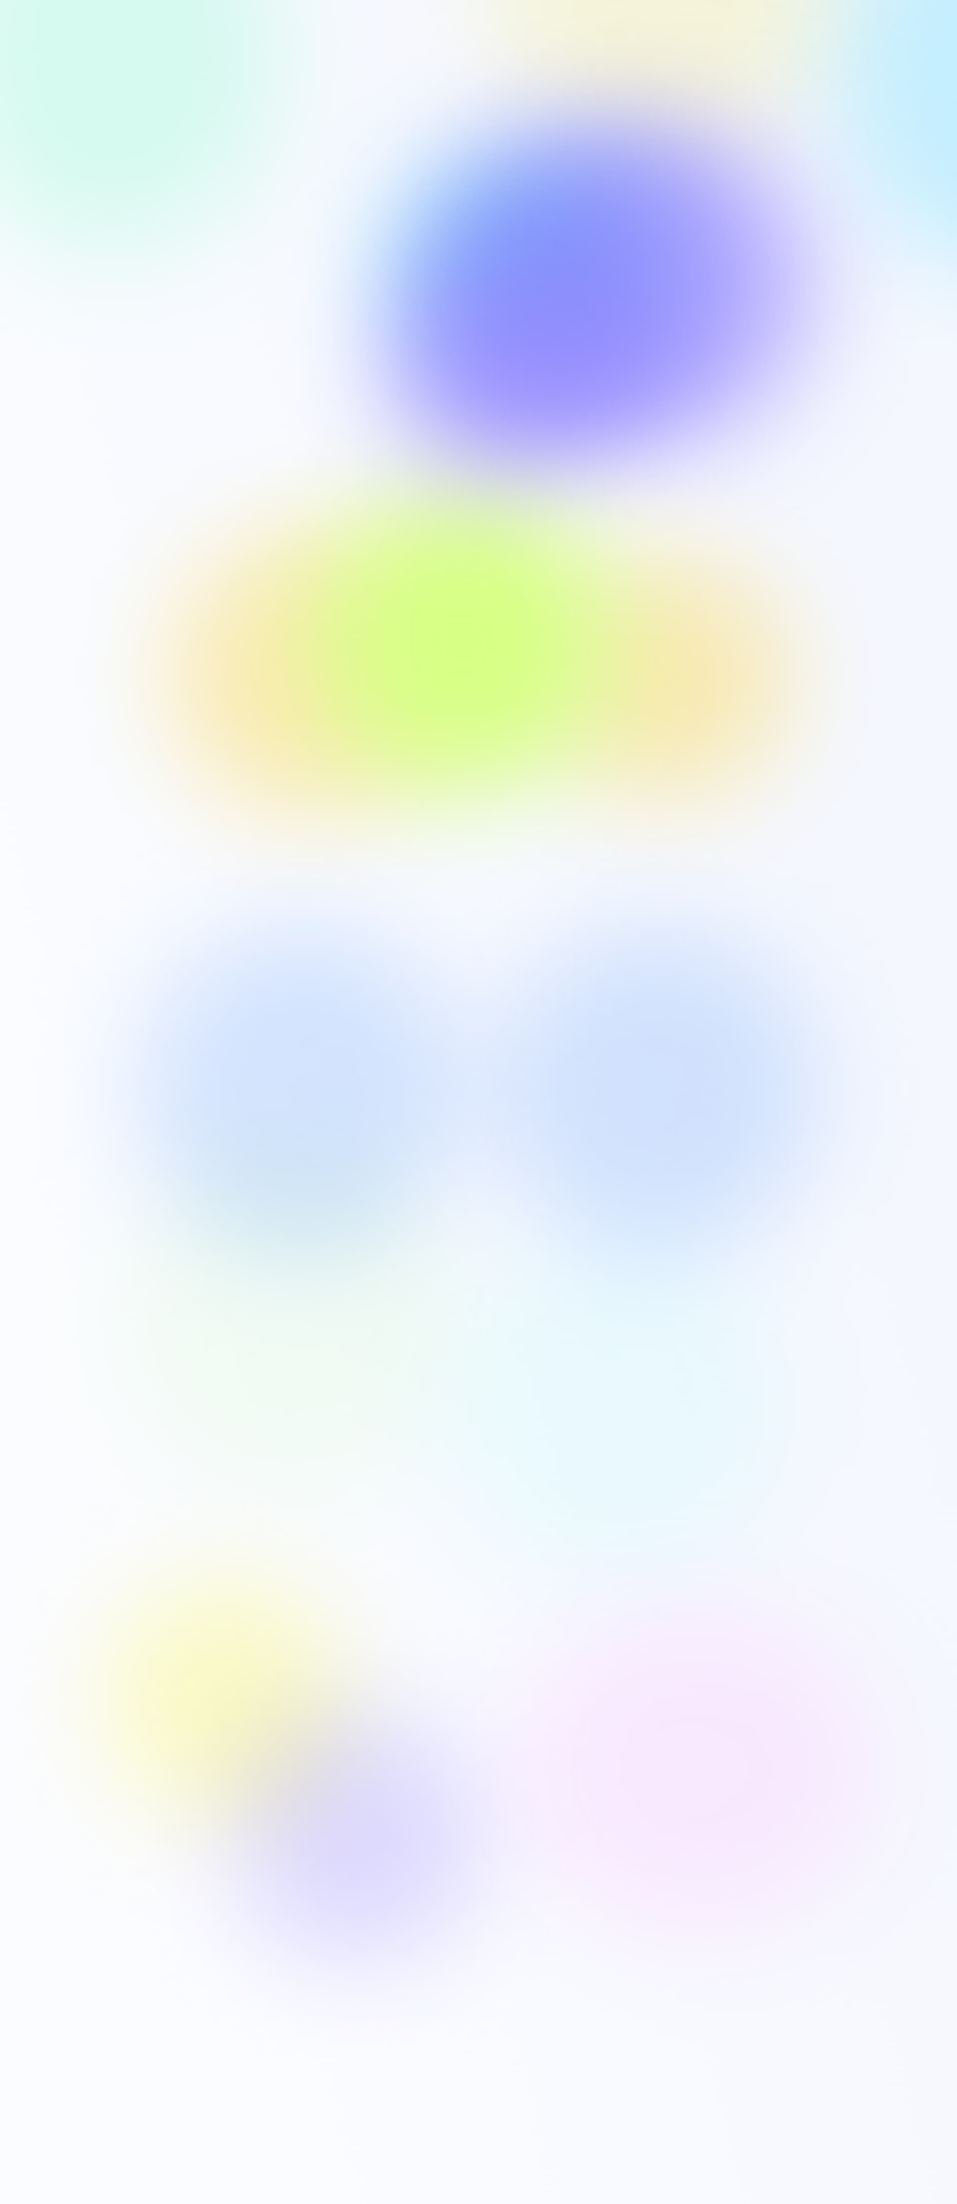
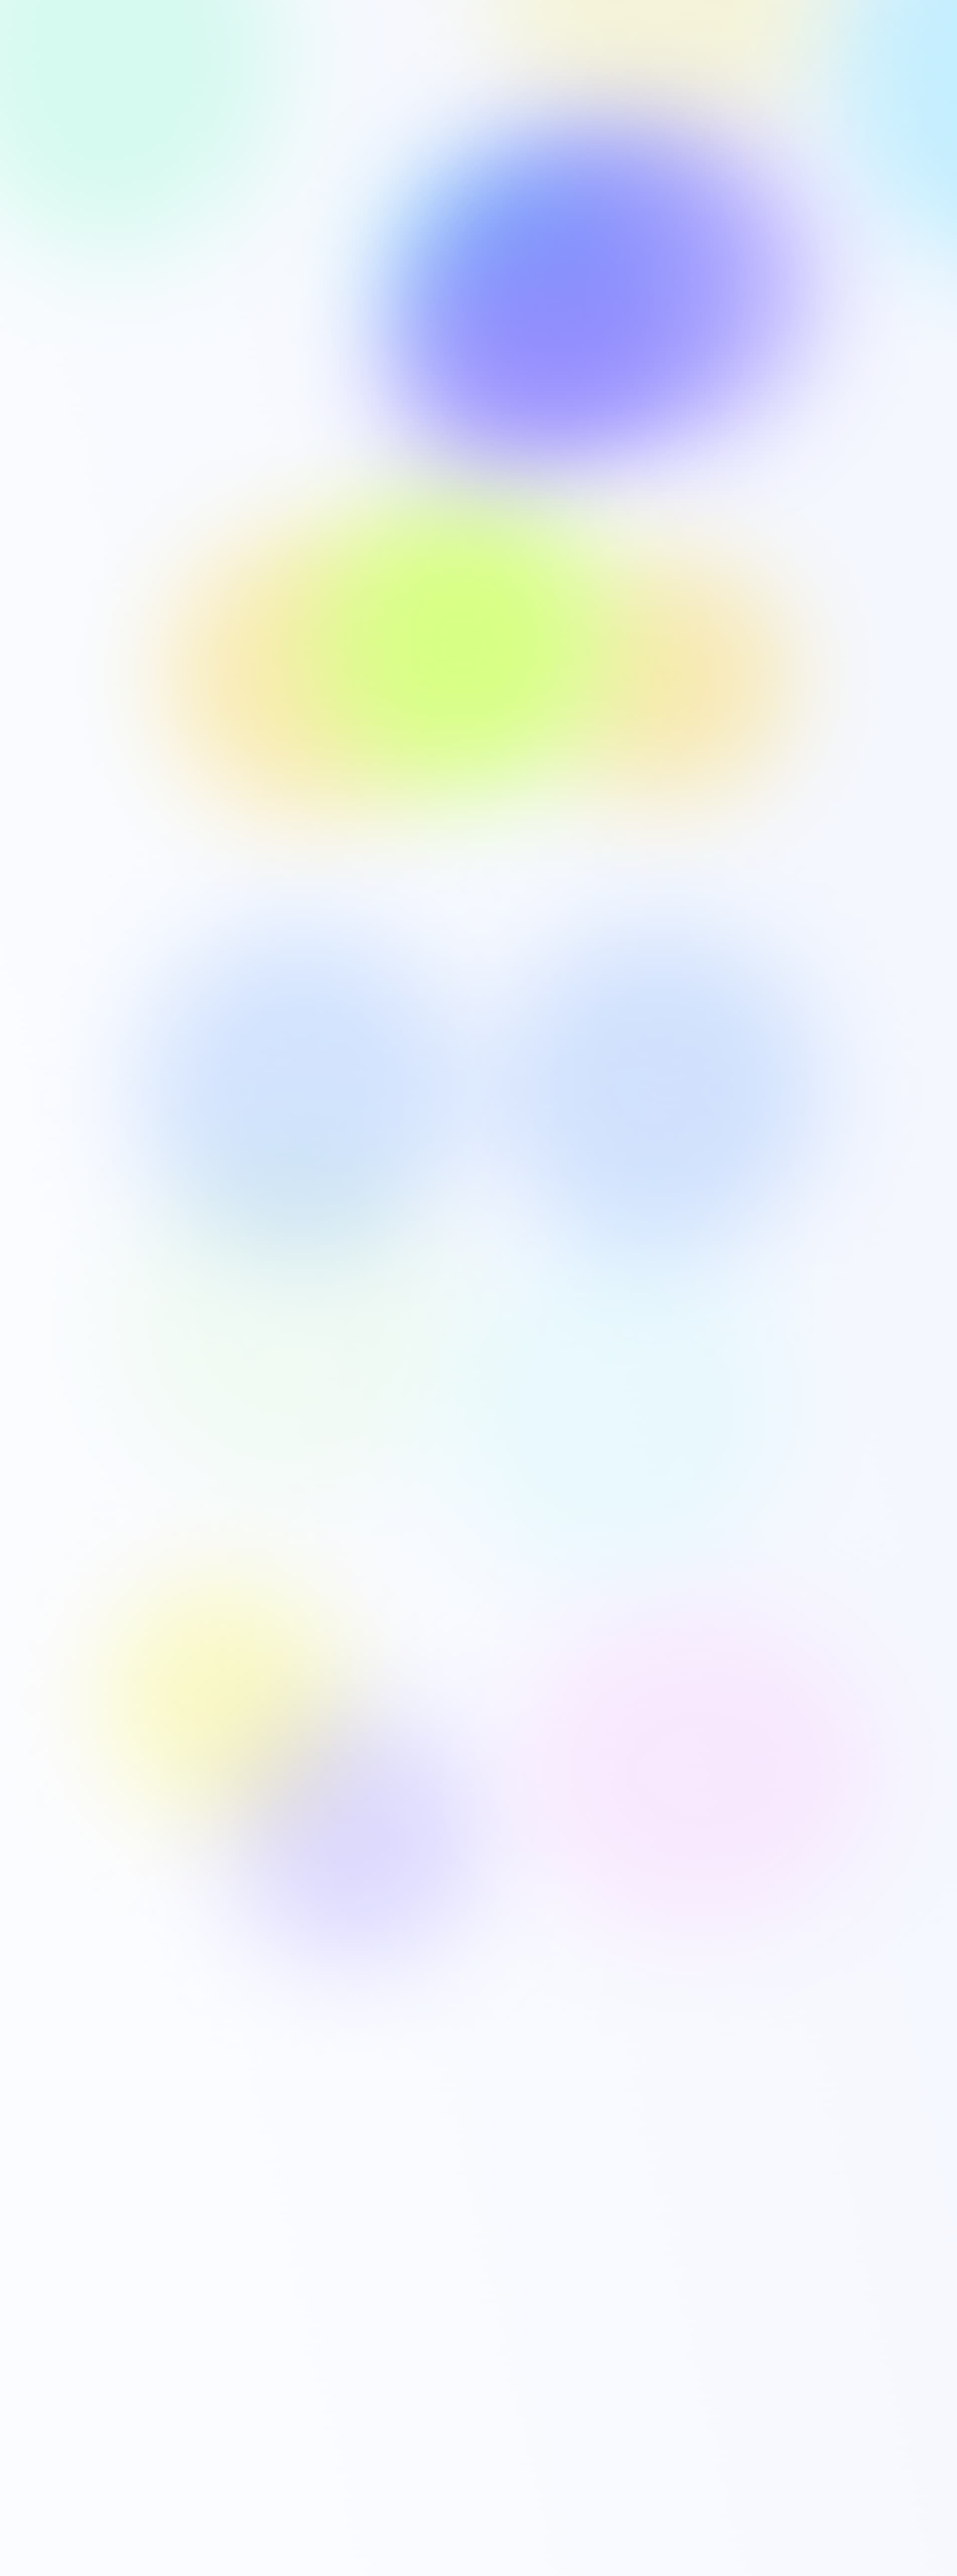
update bg img

diff --git a/src/data-cv.ts b/src/data-cv.ts
@@ -7,36 +7,38 @@ import githubImg from "./images/github.png";
 import typescriptImg from "./images/typescript.png";
 import mvConstructoraImg from "./images/mv-constructora-img.jpg";
 import aerolabImg from "./images/aerolab-img.jpg";
-import portfolioImg from "./images/portfolio-img.jpg";
+import mlImg from "./images/ml-img.jpg";
 
 const dataResume = {
   knowledge: [
-    "Desarrollo de aplicaciones web con 𝗛𝗧𝗠𝗟𝟱, 𝗖𝗦𝗦𝟯 y 𝗝𝗮𝘃𝗮𝗦𝗰𝗿𝗶𝗽𝘁 vanilla o preferentemente con el uso de su librería 𝗥𝗲𝗮𝗰𝘁 𝗝𝗦.",
-    "Librerías: styled-components, react-router, react-intersection-observer.",
+    "Desarrollo de aplicaciones web con HTML5, CSS3, JavaScript y TypeScript, preferentemente con el uso de la librería React JS",
+    "Librerías: styled-components, react-router, react-intersection-observer, react-responsive, Chakra UI.",
     "Experiencia en maquetación perfect pixel.",
+    "Manejo de estados con Context",
     "Experiencia en consumo de API Rest.",
-    "Manejo de 𝗚𝗶𝘁 y 𝗚𝗶𝘁𝗛𝘂𝗯.",
+    "Manejo de Git y GitHub.",
   ],
   skills: [
     ["HTML5", html5Img],
     ["CSS3", css3Img],
     ["JavaScript", javascriptImg],
+    ["TypeScript", typescriptImg],
     ["ReactJS", reactImg],
     ["Git", gitImg],
     ["GitHub", githubImg],
-    ["TypeScript", typescriptImg],
   ],
   proyects: [
+    {
+      name: "Clon de Mercado Libre",
+      img: mlImg,
+      deploy: "https://nicofaienza.github.io/ml-clon",
+    },
     {
       name: "MV Contstuctora",
       img: mvConstructoraImg,
       deploy: "https://nicofaienza.github.io/mv-constructora/",
     },
-    {
-      name: "Portfolio personal",
-      img: portfolioImg,
-      deploy: "https://nicofaienza.github.io/portfolio/",
-    },
+
     {
       name: "Aerolab Challenge",
       img: aerolabImg,

diff --git a/src/layouts/Resume/Resume.tsx b/src/layouts/Resume/Resume.tsx
@@ -10,10 +10,10 @@ export default function Resume(): JSX.Element {
     <ResumeWrapper>
       <ResumeTitle>📑Resumen</ResumeTitle>
       <ResumeSection>
-        <Knowledge data={data.knowledge} />
+        <Skills data={data.skills} />
       </ResumeSection>
       <ResumeSection>
-        <Skills data={data.skills} />
+        <Knowledge data={data.knowledge} />
       </ResumeSection>
       <ResumeSection>
         <Proyects data={data.proyects} />

diff --git a/src/index.css b/src/index.css
@@ -9,6 +9,7 @@
 body {
   background: linear-gradient(239.24deg, #f4f7fe 22.34%, #fbfcff 83.1%);
   background-image: url("./images/background.jpg");
+  background-repeat: no-repeat;
   overflow: hidden auto;
 }
 
